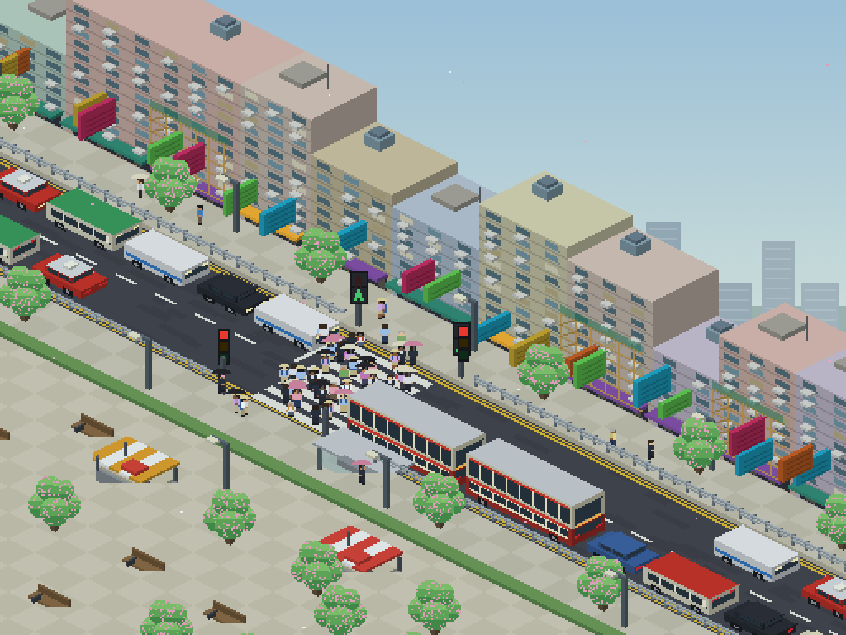
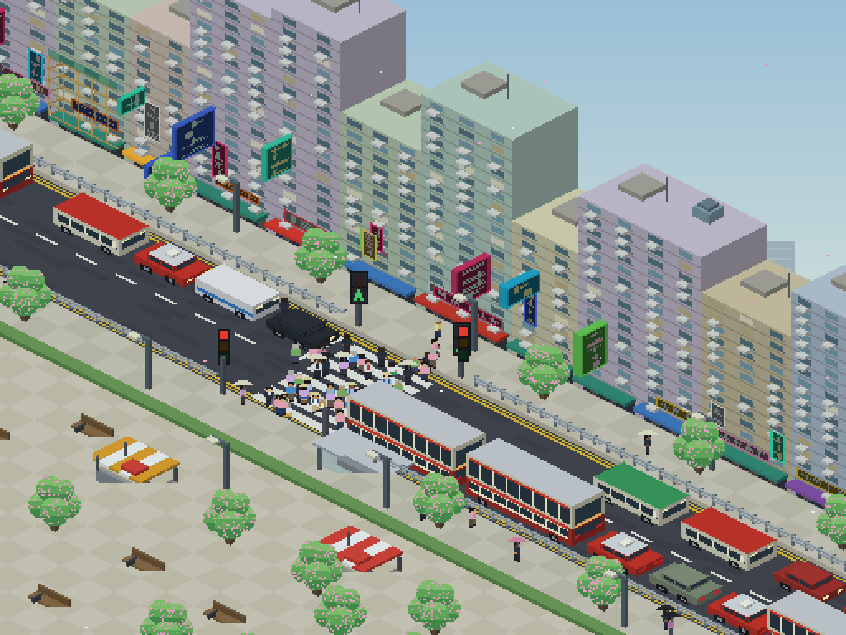
hkg-crossing: taller tenements, varied neon, and fix silent sound after the focus-mute change
Buildings are 10 to 22 floors. Neon signs come in three kinds (blade, fascia, banner)
with 12 colours, frames, seeded pseudo-lettering and a few that flicker at night.
The focus-mute no longer asks document.hasFocus(), which is false in embedded panes
and silenced the sound at load; it now mutes on a blur event or a hidden tab and any
tap or key press counts as back. Cover and screenshots re-rendered.

diff --git a/hkg-crossing/scene.js b/hkg-crossing/scene.js
@@ -73,11 +73,12 @@ const PAL = {
   pave1: '#cdc7b8', pave2: '#c4bead', kerb: '#aaa492', soil: '#8b8676', soil2: '#6e6a5d',
   glass: '#4d6671', glass2: '#6b8996', shop: '#2b2f37',
 };
-const NEON = ['#ff3d7f', '#29d3ff', '#ffd23d', '#7dff6b', '#ff7a2e'];
+const NEON = ['#ff3d7f', '#29d3ff', '#ffd23d', '#7dff6b', '#ff7a2e', '#b36bff', '#3dffd0', '#ff4d4d', '#ffffff', '#ffe66d', '#ff9fd0', '#4d7bff'];
+const INKS = ['#ffffff', '#fff1a8', '#ffd0e0', '#d8ffe6', '#cfe9ff'];
 
 
 const peds = [];
-const state = { phase: 'off', t: 0, from: 'off', car: 'green', ped: 'red', flashT: 0, pulse: 0, night: false, quietHours: false };
+const state = { clock: 0, phase: 'off', t: 0, from: 'off', car: 'green', ped: 'red', flashT: 0, pulse: 0, night: false, quietHours: false };
 
 // ---------------------------------------------------------------- time of day and season
 // Four 6-hour looks (morning 6-12, afternoon 12-18, evening 18-24, late night 0-6) and four seasons.
@@ -124,7 +125,7 @@ const buildings = (function () {
   const r = rng(2026), cols = ['#cfc1a2', '#b9cfc3', '#dbb9b1', '#b8c3d3', '#d8d2b2', '#d6c3b8', '#c3d0b8', '#cabfd0'], aws = ['#b5342a', '#2e7d6b', '#e0a030', '#c8342b', '#3b6fb0', '#7a4a9a'];
   const out = []; let u = UL - 5;
   while (u < UR + 5) {
-    const w = 2.3 + r() * 1.2, fl = 6 + Math.floor(r() * 7);
+    const w = 2.3 + r() * 1.2, fl = 10 + Math.floor(r() * 7) + (r() < 0.18 ? 6 : 0);
     out.push({ u0: u, u1: u + w, fl, c: cols[Math.floor(r() * cols.length)], aw: aws[Math.floor(r() * aws.length)], roof: r() < 0.55 ? 'tank' : 'ant', scaf: r() < 0.12 });
     u += w;
   }
@@ -192,7 +193,7 @@ function drawBuilding(ctx, b, idx) {
       const k = r(), col = k < 0.55 ? PAL.glass : k < 0.8 ? PAL.glass2 : k < 0.92 ? '#a99a78' : '#c9c2ad';
       faceL(ctx, O, uu, uu + 0.52, v, zz, zz + 3.6, col);
       if (r() < 0.5) box(ctx, O, uu + 0.1, v, zz - 2.2, uu + 0.42, v + 0.22, zz - 0.4, { t: '#d6d6d2', l: '#b9b9b6', r: '#8d8d8b' }); // air-con unit
-      if (r() < 0.55) lit.push({ k: 'win', u0: uu, u1: uu + 0.52, v, z0: zz, z1: zz + 3.6 });
+      if (r() < 0.42) lit.push({ k: 'win', u0: uu, u1: uu + 0.52, v, z0: zz, z1: zz + 3.6 });
     }
   }
   // bamboo scaffolding
@@ -206,19 +207,50 @@ function drawBuilding(ctx, b, idx) {
   // roof
   if (b.roof === 'tank') { box(ctx, O, b.u0 + 0.6, 0.5, zt, b.u0 + 1.2, 1.1, zt + 6, '#8aa3b0'); box(ctx, O, b.u0 + 0.7, 0.6, zt + 6, b.u0 + 1.1, 1.0, zt + 8, '#6c8190'); }
   else { box(ctx, O, b.u0 + 0.5, 0.6, zt, b.u0 + 1.4, 1.5, zt + 3, '#a8a49a'); const A = P(O, b.u0 + 1.8, 1.0, zt), B = P(O, b.u0 + 1.8, 1.0, zt + 14); pline(ctx, A[0], A[1], B[0], B[1], '#555a60'); }
-  // neon signs sticking out of the wall
-  const ns = 1 + Math.floor(r() * 2);
+  // neon signs: blades sticking out, fascia boards over the shop, and tall hanging banners; each with its own colours and pseudo-lettering
+  const bw = b.u1 - b.u0, ns = 1 + Math.floor(r() * 3), top = Math.max(8, Math.min(34, (b.fl - 1) * FH * 0.6));
   for (let i = 0; i < ns; i++) {
-    const u = b.u0 + 0.5 + r() * (b.u1 - b.u0 - 1.1), zc = z0 + GF + 2 + r() * 14, h = 9 + Math.floor(r() * 8), col = NEON[Math.floor(r() * NEON.length)];
-    signs.push({ u, z0: zc, z1: zc + h, col, v0: v, v1: v + 1.0 + r() * 0.5 });
+    const k = r(), col = NEON[Math.floor(r() * NEON.length)], ink = INKS[Math.floor(r() * INKS.length)], frame = r() < 0.4 ? NEON[Math.floor(r() * NEON.length)] : null;
+    const sg = { col, ink, frame, seed: Math.floor(r() * 1e6), flick: r() < 0.2 };
+    if (k < 0.42) Object.assign(sg, { kind: 'blade', u: b.u0 + 0.4 + r() * Math.max(0.1, bw - 0.9), t: 0.12 + r() * 0.18, v0: v, v1: v + 0.8 + r() * 0.9, z0: z0 + GF + 2 + r() * top, h: 7 + Math.floor(r() * 22) });
+    else if (k < 0.75) Object.assign(sg, { kind: 'fascia', w: Math.min(bw - 0.4, 1.2 + r() * 1.5), v0: v + 0.02, z0: z0 + GF + 0.8 + r() * 5, h: 5 + Math.floor(r() * 3) });
+    else Object.assign(sg, { kind: 'banner', w: 0.45 + r() * 0.3, v0: v + 0.02, z0: z0 + GF + 4 + r() * 10, h: 13 + Math.floor(r() * 14) });
+    if (sg.kind !== 'blade') sg.u = b.u0 + 0.2 + r() * Math.max(0.05, bw - sg.w - 0.4);
+    sg.z1 = sg.z0 + sg.h;
+    signs.push(sg);
   }
 }
 
+function signCentre(sg) { return sg.kind === 'blade' ? P(O, sg.u + sg.t, (sg.v0 + sg.v1) / 2, (sg.z0 + sg.z1) / 2) : P(O, sg.u + sg.w / 2, sg.v0, (sg.z0 + sg.z1) / 2); }
+function glyphCell(ctx, face, fixed, a0, a1, z0, z1, seed, col) {          // a few strokes that read as lettering without being any
+  const r = rng(seed), q = (x0, x1, y0, y1) => (face === 'R' ? faceR(ctx, O, x0, x1, fixed, y0, y1, col) : faceL(ctx, O, x0, x1, fixed, y0, y1, col)), w = a1 - a0, h = z1 - z0, n = 2 + Math.floor(r() * 3);
+  for (let i = 0; i < n; i++) {
+    const t = r();
+    if (t < 0.4) { const yy = z0 + Math.floor(r() * 3) * h / 3; q(a0 + w * 0.08, a1 - w * 0.08, yy + 0.2, yy + 1.0); }
+    else if (t < 0.8) { const xx = a0 + w * (0.15 + r() * 0.55); q(xx, xx + Math.max(0.06, w * 0.14), z0 + 0.2, z1 - 0.2); }
+    else q(a0 + w * 0.3, a0 + w * 0.6, z0 + h * 0.35, z0 + h * 0.35 + 1.1);
+  }
+}
 function drawSign(ctx, s, glow) {
-  const c = glow ? s.col : shade(s.col, 0.78);
-  box(ctx, O, s.u, s.v0, s.z0, s.u + 0.16, s.v1, s.z1, { t: c, l: shade(c, 0.86), r: shade(c, 0.7) });
-  // lettering (illegible by design): little light bars on the +u face
-  for (let z = s.z0 + 2; z < s.z1 - 1; z += 3) { const a = P(O, s.u + 0.16, s.v0 + 0.15, z), b = P(O, s.u + 0.16, s.v1 - 0.15, z); pline(ctx, a[0], a[1], b[0], b[1], glow ? '#ffffff' : shade(s.col, 0.45)); }
+  const body = glow ? s.col : shade(s.col, 0.78), frame = glow ? (s.frame || s.col) : shade(s.frame || s.col, 0.7), ink = glow ? s.ink : shade(s.ink, 0.5), panel = shade(s.col, glow ? 0.32 : 0.28);
+  if (s.kind === 'blade') {
+    const uf = s.u + s.t;
+    box(ctx, O, s.u, s.v0, s.z0, uf, s.v1, s.z1, { t: body, l: shade(body, 0.86), r: shade(body, 0.7) });
+    faceR(ctx, O, s.v0 + 0.07, s.v1 - 0.07, uf, s.z0 + 1, s.z1 - 1, panel);
+    faceR(ctx, O, s.v0, s.v1, uf, s.z0, s.z0 + 1, frame); faceR(ctx, O, s.v0, s.v1, uf, s.z1 - 1, s.z1, frame);
+    const rows = Math.max(1, Math.floor((s.h - 2) / 4.4)), ch = (s.h - 2) / rows;
+    for (let i = 0; i < rows; i++) glyphCell(ctx, 'R', uf, s.v0 + 0.14, s.v1 - 0.14, s.z0 + 1 + i * ch + 0.5, s.z0 + 1 + (i + 1) * ch - 0.5, s.seed + i, ink);
+  } else if (s.kind === 'fascia') {
+    faceL(ctx, O, s.u, s.u + s.w, s.v0, s.z0, s.z1, frame);
+    faceL(ctx, O, s.u + 0.06, s.u + s.w - 0.06, s.v0, s.z0 + 0.9, s.z1 - 0.9, panel);
+    const cols = Math.max(1, Math.floor((s.w - 0.2) / 0.42)), cw = (s.w - 0.2) / cols;
+    for (let i = 0; i < cols; i++) glyphCell(ctx, 'L', s.v0, s.u + 0.1 + i * cw + 0.04, s.u + 0.1 + (i + 1) * cw - 0.04, s.z0 + 1.2, s.z1 - 1.2, s.seed + i, ink);
+  } else {
+    faceL(ctx, O, s.u, s.u + s.w, s.v0, s.z0, s.z1, body);
+    faceL(ctx, O, s.u + 0.07, s.u + s.w - 0.07, s.v0, s.z0 + 1, s.z1 - 1, panel);
+    const rows = Math.max(1, Math.floor((s.h - 2) / 4.4)), ch = (s.h - 2) / rows;
+    for (let i = 0; i < rows; i++) glyphCell(ctx, 'L', s.v0, s.u + 0.1, s.u + s.w - 0.1, s.z0 + 1 + i * ch + 0.5, s.z0 + 1 + (i + 1) * ch - 0.5, s.seed + i, ink);
+  }
 }
 
 let staticDay = null, maskSky = null, maskWorld = null;
@@ -604,7 +636,7 @@ function carSignal() {
   return 'green';
 }
 function stepPhase(dt) {
-  state.t += dt; state.car = carSignal();
+  state.clock += dt; state.t += dt; state.car = carSignal();
   state.ped = state.phase === 'walk' ? 'green' : state.phase === 'clear' ? ((Math.floor(state.t * 2.5) & 1) ? 'off' : 'green') : 'red';
   if (state.pulse > 0) state.pulse -= dt;
 }
@@ -620,10 +652,10 @@ function buildEmissive() {
   lanterns.forEach((l) => { const [px, py] = P(O, l.u + 0.21, CFG.farB + 0.25, l.z + 3.2); x.fillStyle = l.col; x.fillRect(Math.round(px) - 4, Math.round(py) - 3, 8, 7); });
   x.globalCompositeOperation = 'lighter';
   lanterns.forEach((l) => { const [px, py] = P(O, l.u + 0.21, CFG.farB + 0.25, l.z + 3.2), h = hex(l.col); glow(x, px, py, 18, `rgba(${h[0]},${h[1]},${h[2]},A)`, 0.55); });
-  signs.forEach((sg) => { const [px, py] = P(O, sg.u + 0.1, (sg.v0 + sg.v1) / 2, (sg.z0 + sg.z1) / 2); const h = hex(sg.col); glow(x, px, py, 26, `rgba(${h[0]},${h[1]},${h[2]},A)`, 0.45); });
+  signs.forEach((sg) => { const [px, py] = signCentre(sg); const h = hex(sg.col); glow(x, px, py, Math.max(20, sg.h * 0.9), `rgba(${h[0]},${h[1]},${h[2]},A)`, 0.52); });
   lamps.forEach(([u, v]) => { const [px, py] = P(O, u, v, CFG.kerb + 27); glow(x, px, py, 22, 'rgba(255,240,190,A)', 0.55); const [gx, gy] = P(O, u, v, CFG.kerb); glow(x, gx, gy + 2, 34, 'rgba(255,236,170,A)', 0.22); });
   x.globalCompositeOperation = 'source-over';
-  signs.forEach((sg) => drawSign(x, sg, true));
+  signs.forEach((sg) => { if (!sg.flick) drawSign(x, sg, true); });
   // late night: a moon and a few stars, only where the sky is actually showing
   if (state.period === 'late') {
     const open = (px, py) => px >= 0 && px < W && py >= 0 && py < H && !maskSky[(py * W + px) * 4 + 3] && !maskWorld[(py * W + px) * 4 + 3];
@@ -637,7 +669,9 @@ function buildEmissive() {
   }
   emis = c;
 }
+function flickOn(sg) { return ((Math.floor(state.clock * 9 + sg.seed) * 2654435761) >>> 0) % 100 > 14; }
 function drawLights() {
+  g.save(); g.translate(-camX, 0); signs.forEach((sg) => { if (sg.flick && flickOn(sg)) drawSign(g, sg, true); }); g.restore();
   g.globalCompositeOperation = 'lighter';
   lanes.forEach((l) => l.list.forEach((c) => {
     const umin = l.dir > 0 ? UL + c.s - c.len : UR - c.s, vc = l.v, fu = l.dir > 0 ? umin + c.len : umin;

diff --git a/hkg-crossing/index.html b/hkg-crossing/index.html
@@ -341,7 +341,7 @@ function ensureAudio() {
   if (state.ctx) { if (state.ctx.state === 'suspended') state.ctx.resume(); return; }
   const AC = window.AudioContext || window.webkitAudioContext;
   const ctx = state.ctx = new AC({ latencyHint: 'interactive' });
-  state.master = ctx.createGain(); state.master.gain.value = document.hidden || !document.hasFocus() ? 0 : CONFIG.volume;
+  state.master = ctx.createGain(); state.master.gain.value = document.hidden ? 0 : CONFIG.volume;
   const comp = ctx.createDynamicsCompressor();
   comp.connect(ctx.destination);
   // Space: dry + convolution reverb (generated room) + a short feedback delay for a hollow, boxy/tube ring.
@@ -599,14 +599,20 @@ function stopCycle() {
   $('cycle').setAttribute('aria-pressed', false); $('cycle').textContent = 'Run full crossing';
 }
 
-// Mute (don't pause) whenever the tab or window isn't focused, so it never ticks over whatever you're actually listening to.
-function focusLevel() { return document.hidden || !document.hasFocus() ? 0 : CONFIG.volume; }
+// Mute (don't pause) whenever the tab is hidden or the window reports it lost focus (a 'blur' event), so it never ticks over whatever
+// you're actually listening to. It does NOT ask document.hasFocus(): embedded views and some browsers report false even while you're
+// using the page, which silenced the sound. Any tap or key press counts as being back.
+state.blurred = false;
+function focusLevel() { return document.hidden || state.blurred ? 0 : CONFIG.volume; }
 function applyFocus() {
   if (!state.ctx) return;
   if (!document.hidden && state.ctx.state === 'suspended' && $('power').getAttribute('aria-pressed') === 'true') state.ctx.resume().catch(() => {});
   state.master.gain.setTargetAtTime(focusLevel(), state.ctx.currentTime, 0.04);
 }
-document.addEventListener('visibilitychange', applyFocus); window.addEventListener('blur', applyFocus); window.addEventListener('focus', applyFocus);
+document.addEventListener('visibilitychange', applyFocus);
+window.addEventListener('blur', () => { state.blurred = true; applyFocus(); });
+window.addEventListener('focus', () => { state.blurred = false; applyFocus(); });
+['pointerdown', 'keydown', 'touchstart'].forEach((ev) => addEventListener(ev, () => { if (state.blurred) { state.blurred = false; applyFocus(); } }, { passive: true }));
 
 build();
 { const q = new URLSearchParams(location.search);

diff --git a/CLAUDE.md b/CLAUDE.md
@@ -69,11 +69,12 @@ The tick of a Hong Kong pedestrian crossing, synthesised with the Web Audio API 
 - Real-recording lightbox on the lab too: a "Hear the real one" button beside Mute opens a `<dialog>` with Chuck's reference video (youtube-nocookie, loaded on open, removed on close) and a "Play mine" button that plays the green man tick for comparison (it parks the lab's own ticks while open, restores the previous audio state on close, and stays silent in quiet hours).
 - Quiet hours: `QUIET = { from: 0, to: 6 }` (local time). All ticks stop and a note shows; `?hour=N` fakes the hour for testing. A Mute button sits under the signal. Browsers block audio until a touch, so nothing ticks on a fresh load until the first press.
 - Voice ("Blend", the only one Chuck kept): a sine body whose pitch falls (`drop` 0.8) plus a short triangle overtone, bandpassed noise "snap", bell-ratio partials (x2.76, x5.4, `bell` 0.4), and three strikes at once: 750 / 1300 / 1450 Hz, 120 ms, Transpose -1.00 semitone (so about 708 / 1227 / 1369 Hz). Imperfection 0.5: per-tick pitch drift and wobble, per-strike detune, length, level and timing jitter. Space: generated reverb (room 0.5s, wet 0.2: 0.3 was a bit strong on Chuck's phone) plus a short feedback "hollow" echo (0.3, 4ms) for the box-on-a-pole ring. All of these have steppers in the panel; the defaults are Chuck's ear-tuned values against a recording.
-- Street scene (`scene.js`, `window.HKG_SCENE`): isometric 2:1 tiles (u along the road, v across; left-hand traffic: far lane drives +u, near lane -u), 512x384 (4:3) internal canvas with the street running off every edge (world u from -14 to 28, a near-side plaza to v=25; vehicles and pedestrians enter and leave off-canvas; the crossing sits left of and below centre, `CFG.cx`, so the tenements fill the view and the plaza stays small), drawn only with fillRect/polygon spans (pixel-exact, no anti-aliasing) from iso boxes. Static scenery (sky, skyline, road, zebra, five tenements with air-cons, scaffolding, neon signs) is pre-rendered once; vehicles (taxi, car, van, minibus, double-decker bus) and props (guardrails, lamps, trees, signal poles, bus shelter) are pre-rendered sprites; pedestrians are 12px billboards from 36 seeded looks (worker, school kid, auntie with the red-white-blue bag, tourist, delivery rider, casual; some with umbrellas) in 4 walk frames and 3 facings. Everything drawn is depth-sorted by u+v each frame (~0.1ms of JS). The lab calls `HKG_SCENE.setPhase(p)` from its own `setPhase` and `HKG_SCENE.pulse()` on each tick. Mapping: off = traffic flows, a few strollers; wait = crowd gathers at both kerbs (up to ~11 a side), car light green->amber (1s)->red (2s); walk = car red, crowd released with a 0-1.2s stagger plus a 3s scramble of new arrivals, cars yield to anyone on the road; clear = no new crossers, 4 hurrying runners; back to off = cars released after 1.2s. Vehicles and pedestrians dissolve at the slab ends instead of clipping. Time of day (local clock, `?hour=N`): four 6-hour looks, each a sky palette plus a multiply tint: morning 6-12, afternoon 12-18, evening 18-24 (night: emissive layer with lit windows, neon, lamp glows, lanterns, plus headlights/taillights and signal heads redrawn on top) and late night 0-6 (the quiet hours: moon and stars where the sky shows, thinner traffic and crowd). Season (calendar month, `?month=1-12` or `?season=`): winter Dec-Feb (pale thin trees with pink Bauhinia blossom, coats and scarves, red lanterns), spring Mar-May (blossom, drifting petals, pastel clothes), summer Jun-Aug (lush, sun umbrellas, shorts), autumn Sep-Nov (orange trees, falling leaves, amber lanterns). The look is rebuilt when the period or season changes (checked every 30s). Phones (<600px wide) get a 360px-wide crop (still 384 tall) centred on the crossing so pixels stay near 1:1; reduced motion renders static states (`warm()` simulates a few seconds per phase change, no loop). The loop pauses off-screen and when the tab is hidden. Built in a separate clone (`claude-projects/labs-clones/hkg-scene`, branch `hkg-scene`). Chuck's decisions: isometric, replace the SVG signal head, "proper HK crowd".
+- Street scene (`scene.js`, `window.HKG_SCENE`): isometric 2:1 tiles (u along the road, v across; left-hand traffic: far lane drives +u, near lane -u), 512x384 (4:3) internal canvas with the street running off every edge (world u from -14 to 28, a near-side plaza to v=25; vehicles and pedestrians enter and leave off-canvas; the crossing sits left of and below centre, `CFG.cx`, so the tenements fill the view and the plaza stays small), drawn only with fillRect/polygon spans (pixel-exact, no anti-aliasing) from iso boxes. Static scenery (sky, skyline, road, zebra, 14 procedural tenements 10 to 22 floors tall with air-cons, scaffolding and neon signs) is pre-rendered once; vehicles (taxi, car, van, minibus, double-decker bus) and props (guardrails, lamps, trees, signal poles, bus shelter) are pre-rendered sprites; pedestrians are 12px billboards from 36 seeded looks (worker, school kid, auntie with the red-white-blue bag, tourist, delivery rider, casual; some with umbrellas) in 4 walk frames and 3 facings. Everything drawn is depth-sorted by u+v each frame (~0.1ms of JS). The lab calls `HKG_SCENE.setPhase(p)` from its own `setPhase` and `HKG_SCENE.pulse()` on each tick. Mapping: off = traffic flows, a few strollers; wait = crowd gathers at both kerbs (up to ~11 a side), car light green->amber (1s)->red (2s); walk = car red, crowd released with a 0-1.2s stagger plus a 3s scramble of new arrivals, cars yield to anyone on the road; clear = no new crossers, 4 hurrying runners; back to off = cars released after 1.2s. Vehicles and pedestrians dissolve at the slab ends instead of clipping. Time of day (local clock, `?hour=N`): four 6-hour looks, each a sky palette plus a multiply tint: morning 6-12, afternoon 12-18, evening 18-24 (night: emissive layer with lit windows, neon, lamp glows, lanterns, plus headlights/taillights and signal heads redrawn on top) and late night 0-6 (the quiet hours: moon and stars where the sky shows, thinner traffic and crowd). Season (calendar month, `?month=1-12` or `?season=`): winter Dec-Feb (pale thin trees with pink Bauhinia blossom, coats and scarves, red lanterns), spring Mar-May (blossom, drifting petals, pastel clothes), summer Jun-Aug (lush, sun umbrellas, shorts), autumn Sep-Nov (orange trees, falling leaves, amber lanterns). The look is rebuilt when the period or season changes (checked every 30s). Phones (<600px wide) get a 360px-wide crop (still 384 tall) centred on the crossing so pixels stay near 1:1; reduced motion renders static states (`warm()` simulates a few seconds per phase change, no loop). The loop pauses off-screen and when the tab is hidden. Built in a separate clone (`claude-projects/labs-clones/hkg-scene`, branch `hkg-scene`). Chuck's decisions: isometric, replace the SVG signal head, "proper HK crowd".
 - Volume: fixed, no control. `CONFIG.volume` is 0.15, i.e. 30% of the original 0.5 (about 10 dB quieter; Chuck: it was louder than YouTube and games, then still too loud at 40%). The write-up demo uses the same value (`demo.js` `CONFIG.volume`).
 - Autostart: the idle red-man tick starts on load (`$('power').click()` with `state.quietStart`, so no green phase flashes through the scene). Browsers keep the AudioContext suspended until the first gesture, so a first pointerdown/keydown/touch resumes it and a "Tap anywhere to start the sound." line shows until it is running.
+- Neon signs: three kinds (blade sticking out of the wall, fascia board over the shop, tall hanging banner), 12 neon colours, optional contrasting frame, pseudo-lettering built from seeded strokes (illegible on purpose), one sign in five flickers at night (drawn live each frame, the rest are in the pre-rendered emissive layer).
 - Cover: `hkg-crossing/cover.webp` (from `originals/hkg-crossing/cover.png`, 1000x475, `fit: 'cover'`): the street in autumn, day on the left and night on the right, zoomed on the crossing, composed from `?bare&hour=14&month=10&phase=walk` and `?bare&hour=21&month=10&phase=wait` renders at 1280x960 (cropped 1000x475 starting at x=80,y=230, so more building and less plaza) on the same slight diagonal as the ocean cover (top 46%, bottom 54%) (`?bare` hides everything but the scene). `cover.og.jpg` is the same composite at 1200x630. Buses are 24px tall (`VT.bus.bh`); `HKG_SCENE.force(lane, type, s)` puts a vehicle on screen to check a sprite.
-- Scheduling: a lookahead scheduler on the audio clock (not setTimeout drift); the lamp pulse is a timeout keyed to each tick. Focus: the master gain ramps to 0 whenever the tab is hidden or the window/page isn't focused (`applyFocus`: visibilitychange, blur, focus), and back to `CONFIG.volume` on focus. It mutes, it does not suspend, so the clock keeps running (Chuck: "mute not pause"). Clicking into the YouTube lightbox iframe also mutes the lab, which is wanted.
+- Scheduling: a lookahead scheduler on the audio clock (not setTimeout drift); the lamp pulse is a timeout keyed to each tick. Focus: the master gain ramps to 0 whenever the tab is hidden or the window has fired a `blur` (`applyFocus`: visibilitychange, blur, focus; any pointerdown/keydown/touch counts as back), and returns to `CONFIG.volume`. Do NOT use `document.hasFocus()` for this: embedded browser panes report false while you are using the page, which made the sound silent (a real bug, found Nov 2026). It mutes, it does not suspend, so the clock keeps running (Chuck: "mute not pause"). Clicking into the YouTube lightbox iframe also mutes the lab, which is wanted.
 - Write-up demo: `hkg-crossing/direction/demo.js` replays the sound at stages of the build behind play buttons (`HKG_DEMO.play(id)`; ids in `STAGES`, `JOURNEY` is the order for "Play all"). The page also has a lightbox (`<dialog id="real">`) that loads a real-crossing YouTube video (youtube-nocookie, only on open; Chuck's pick, credited to Traveling Erol) with a "Play mine" button to compare. Write-up order is Chuck's: goal, listen to how it grew, hollow box interlude (explains stages 11-12), imperfection after the journey, crossing, quiet hours, testing. Its synthesis is a copy of the lab's `voiceTick`, space effects and `ensureAudio`: keep the two in step if the voice changes (the stage params are in `STAGES`; the final stage is `FINAL`).
 - Debug: `window.__crossing` is the state object; `window.HKG_SCENE` exposes `state`, `lanes`, `peds`, `warm(sec)`, `render()`. `?phase=wait|walk|clear` previews a moment of the crossing silently (the scene plays up to it), `?hour=N` fakes the hour (night, quiet hours). Used for the write-up screenshots.
 - Tested headless only (phase order, tick gaps measured, quiet-hours note, scene timeline: crowd gathers 10 to 22, nobody crosses until walk, 37 crossing at the peak, cars released after clear). Chuck judged the sound by ear on his Mac. Not tested on iOS (audio unlock) or a phone yet.
